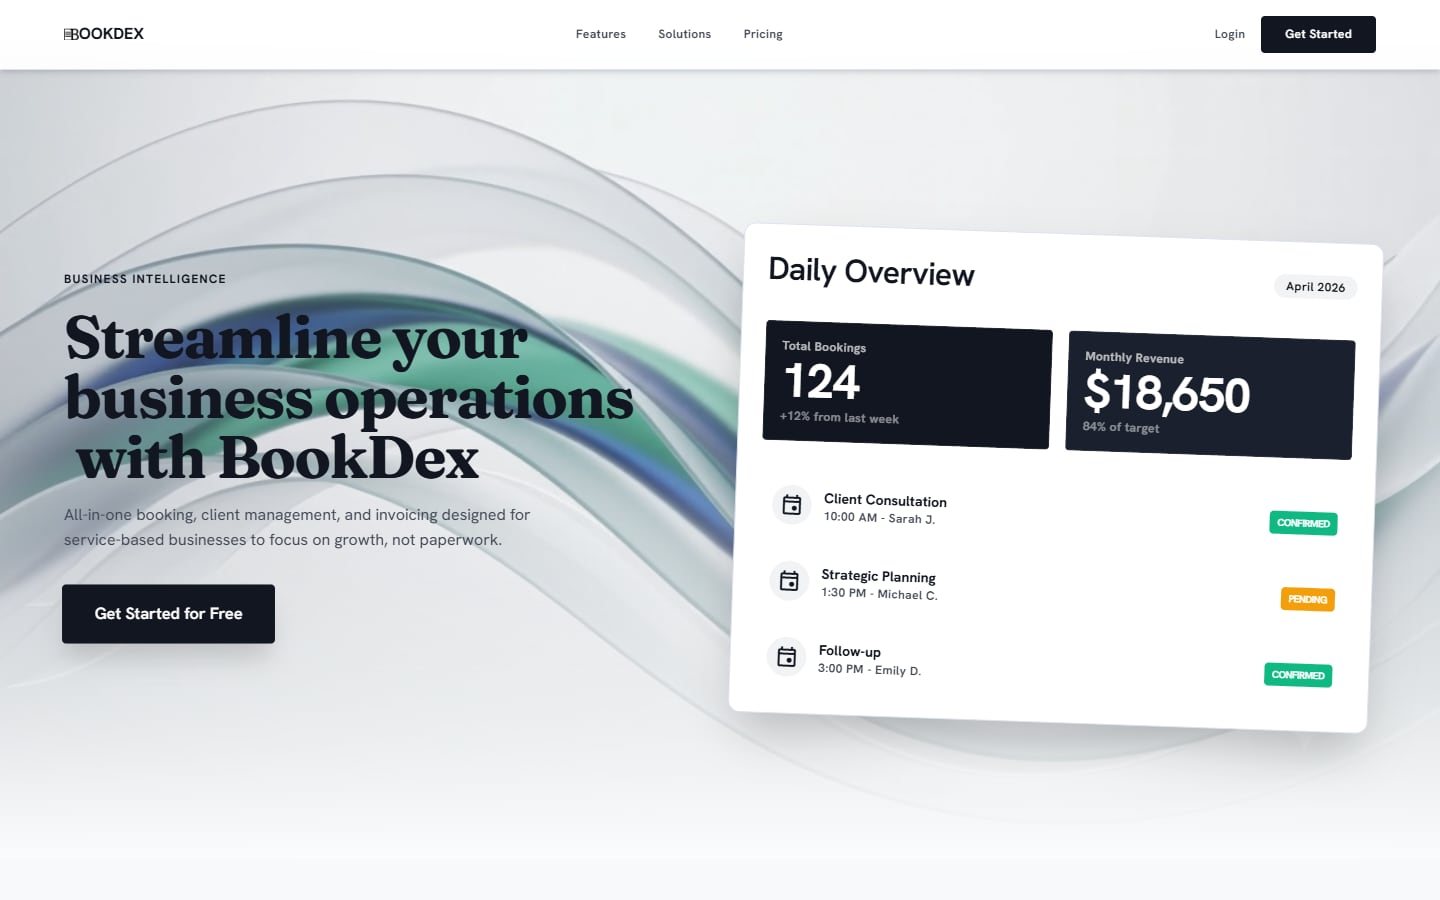
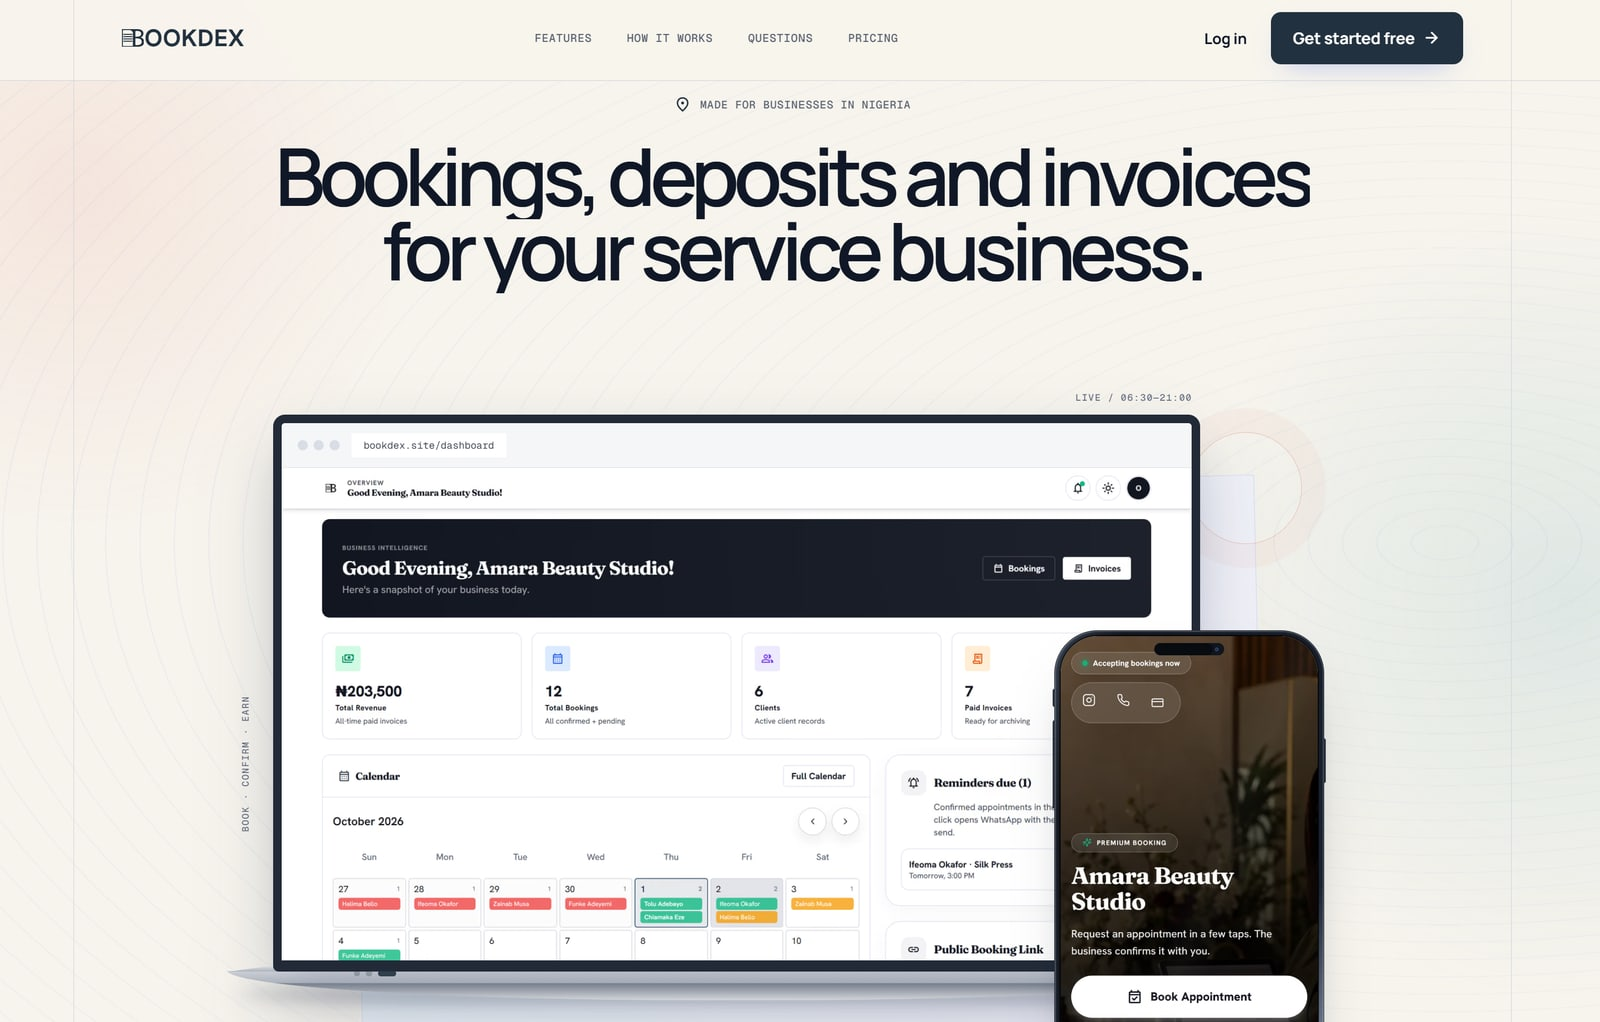
Update BookDex screenshot and summary

diff --git a/content/site.ts b/content/site.ts
@@ -21,7 +21,7 @@ export const skillGroups = [
 ] as const;
 export type Project = { slug:string; title:string; type:string; year:string; tone:string; number:string; image:string; logo:string; secondaryImage?:string; phone?:string; url?:string; repository?:string; client:string; summary:string; challenge:string; solution:string; outcome:string; stack:readonly string[] };
 export const projects: readonly Project[] = [
-  { slug:"bookdex", title:"BookDex", type:"Solo SaaS · Full-stack development", year:"2025 — NOW", tone:"blue", number:"01", image:"/projects/bookdex-site.jpg", phone:"/projects/bookdex-phone.png", logo:"/brands/bookdex.svg", client:"Independent product", url:"https://bookdex.site", summary:"A multi-tenant booking, client-management and invoicing platform built for African service businesses.", challenge:"Service businesses often piece together calendars, messages, payment records and client notes. The product needed to make that operational complexity feel calm while enforcing secure separation between businesses and staff roles.", solution:"I designed and shipped the product solo, building responsive booking and dashboard flows, PostgreSQL Row Level Security, staff permissions, Edge Functions, notifications and client-side PDF invoices.", outcome:"A deployed SaaS product with tenant isolation, production authentication, Nigeria-focused SEO, Core Web Vitals tracking and email and WhatsApp confirmation workflows.", stack:["React","TypeScript","Supabase","PostgreSQL","Vite","Vercel"], repository:"https://github.com/omasanetsano" },
+  { slug:"bookdex", title:"BookDex", type:"Solo SaaS · Full-stack development", year:"2025 — NOW", tone:"blue", number:"01", image:"/projects/bookdex-site.jpg",, logo:"/brands/bookdex.svg", client:"Independent product", url:"https://bookdex.site", summary:"A multi-tenant platform for bookings, deposits, client management and invoicing, built for service businesses in Nigeria.", challenge:"Service businesses often piece together calendars, messages, payment records and client notes. The product needed to make that operational complexity feel calm while enforcing secure separation between businesses and staff roles.", solution:"I designed and shipped the product solo, building responsive booking and dashboard flows, PostgreSQL Row Level Security, staff permissions, Edge Functions, notifications and client-side PDF invoices.", outcome:"A deployed SaaS product with tenant isolation, production authentication, Nigeria-focused SEO, Core Web Vitals tracking and email and WhatsApp confirmation workflows.", stack:["React","TypeScript","Supabase","PostgreSQL","Vite","Vercel"], repository:"https://github.com/omasanetsano" },
   { slug:"zolig-consulting", title:"ZOLIG Consulting", type:"Web development · Deployment", year:"2026", tone:"green", number:"02", image:"/projects/zolig-site.jpg", logo:"/brands/zolig.png", client:"ZOLIG Consulting Limited", url:"https://zolig-constructionltd.vercel.app/", summary:"A modern corporate platform for a Nigerian company working across construction, procurement and protective equipment.", challenge:"Three distinct service lines had to read as one credible company while preserving the existing green identity and giving the team room to manage growing content.", solution:"I built the company site in Next.js 16 and React 19 around a clear Build, Supply, Protect narrative: service, project, gallery and journal pages with responsive layouts and an enquiry form. I then prepared it to run natively on Vercel, replacing the Cloudflare-specific pieces of the original export.", outcome:"A live company website on Vercel. Public pages are served from bundled content. The content manager is paused until Vercel-compatible authentication and storage are connected.", stack:["Next.js","React","TypeScript","Tailwind CSS","Vercel"], repository:"https://github.com/omasanetsano/zolig" },
   { slug:"shefguide", title:"ShefGuide", type:"AI product · Collaborative MSc project", year:"2026", tone:"sand", number:"03", image:"/projects/shefguide-site.jpg", logo:"/brands/shefguide.svg", secondaryImage:"/projects/shefguide-chat.png", client:"MSc dissertation project", url:"https://shefguide.onrender.com/", summary:"An AI academic-support platform designed to help international students understand UK university life and turn uncertainty into a useful next step.", challenge:"Academic guidance can be fragmented, formal and difficult to navigate—especially for students adapting to a new educational culture.", solution:"In this collaborative build, I created the React and TypeScript frontend, the dual-source RAG pipeline with provider switching, and the evaluation harness with statistical tests and eight prompt-injection attacks.", outcome:"A completed research product combining a calm student experience with retrieval, multi-provider LLM integration and measurable safety and quality evaluation.", stack:["React","TypeScript","Python","RAG","OpenAI","Gemini"], repository:"https://github.com/omasanetsano" },
   { slug:"bomas-academy", title:"Bomas Academy", type:"Web redesign · Development", year:"2026", tone:"coral", number:"04", image:"/projects/bomas-home.png", logo:"/brands/bomas.jpg", client:"Bomas Academy", url:"https://www.bomasacademy.org/", summary:"A confident, family-friendly digital home for a school in Jos, supporting discovery, admissions and ongoing communication with its community.", challenge:"The school needed a site that could express its character, explain every learning stage and remain practical for staff to update without developer support.", solution:"Starting from the school’s existing TanStack Start and Supabase codebase, I redesigned the public site (navigation and mobile menu, home, academics, admissions, school life, news and gallery) and the staff admin area (overview, website content, staff, news and gallery), then moved the build onto a TanStack Start version Vercel accepts.", outcome:"A live school website with clear admissions pathways, real campus photography and a Supabase-backed admin area that staff can use to update content.", stack:["React","TypeScript","TanStack Start","Supabase","Tailwind CSS","Framer Motion"], repository:"https://github.com/omasanetsano" },
